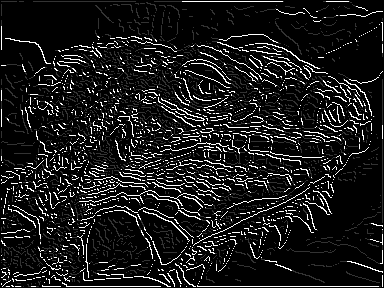
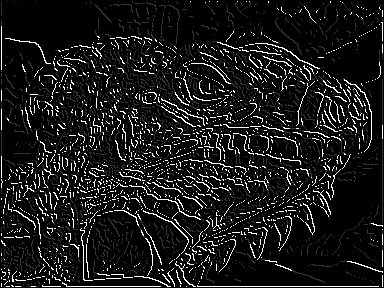
fixed bugs

diff --git a/src/edge_detection.cpp b/src/edge_detection.cpp
@@ -63,19 +63,19 @@ Image non_maximum_supp(const Image& G, const Image& theta)
 
             // angle 0
             if (((0 <= angle(x,y,0) && angle(x,y,0)) < 22.5) || (157.5 <= angle(x,y,0) && angle(x,y,0) <= 180)) {
-                q = G(x, y + 1, 0);
-                r = G(x, y - 1, 0);
+                q = G(x+1, y, 0);
+                r = G(x-1, y, 0);
             }
 
             // angle 45
             if ((22.5 <= angle(x,y,0) && angle(x,y,0) < 67.5)) {
-                q = G(x + 1, y - 1, 0);
-                r = G(x - 1, y + 1, 0);
+                q = G(x - 1, y + 1, 0);
+                r = G(x + 1, y - 1, 0);
             }
             // angle 90
             else if ((67.5 <= angle(x,y,0) &&  angle(x,y,0) < 112.5)){
-                q = G(x + 1, y, 0);
-                r = G(x - 1, y, 0);
+                q = G(x, y+1, 0);
+                r = G(x, y-1, 0);
             }
 
             // angle 135

diff --git a/src/filter_image.cpp b/src/filter_image.cpp
@@ -214,7 +214,6 @@ Image make_gaussian_filter(float sigma)
         }
     }
 
-    l2_normalize(f);
 
     return f;
 }
